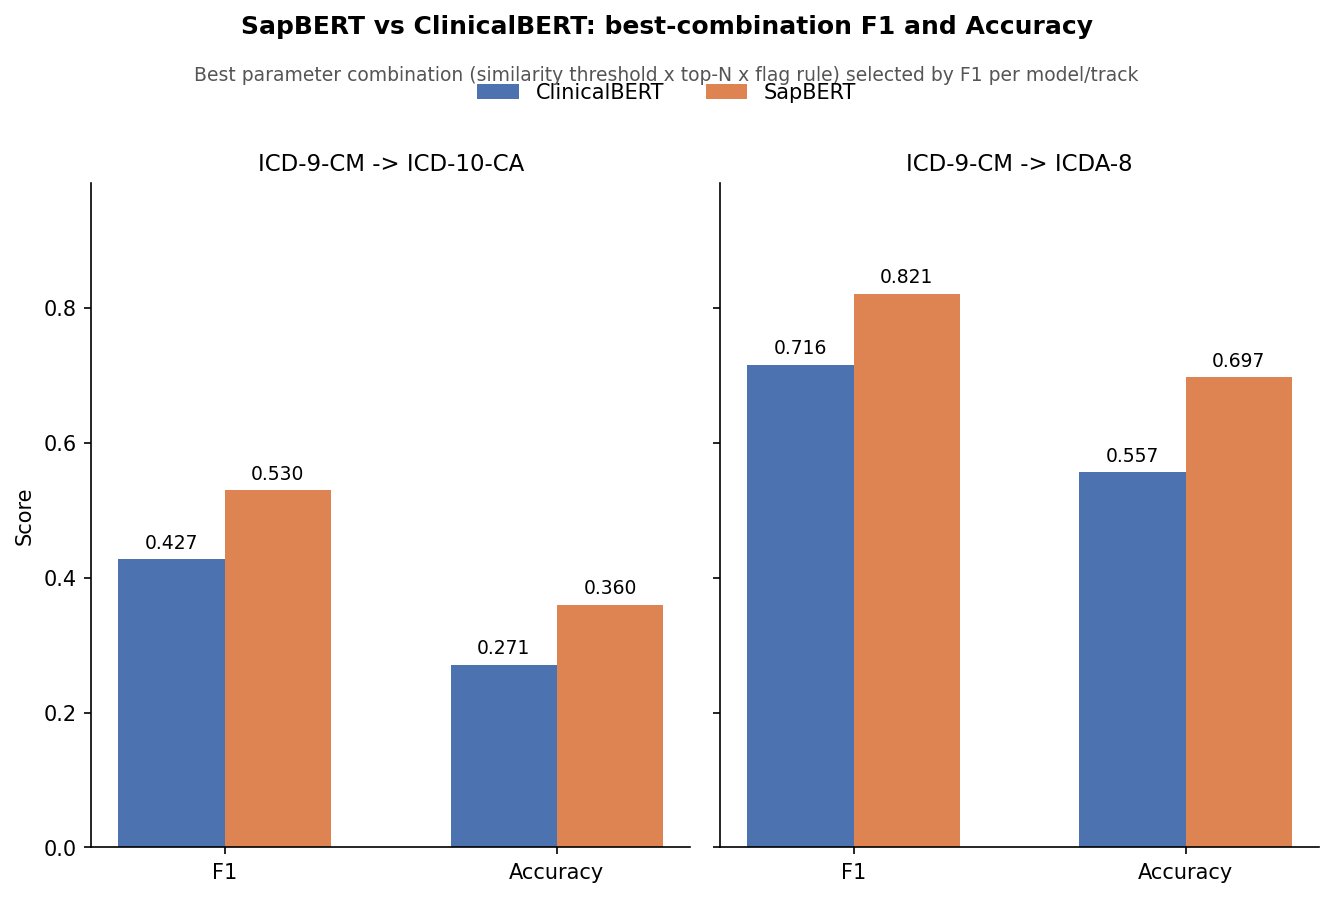
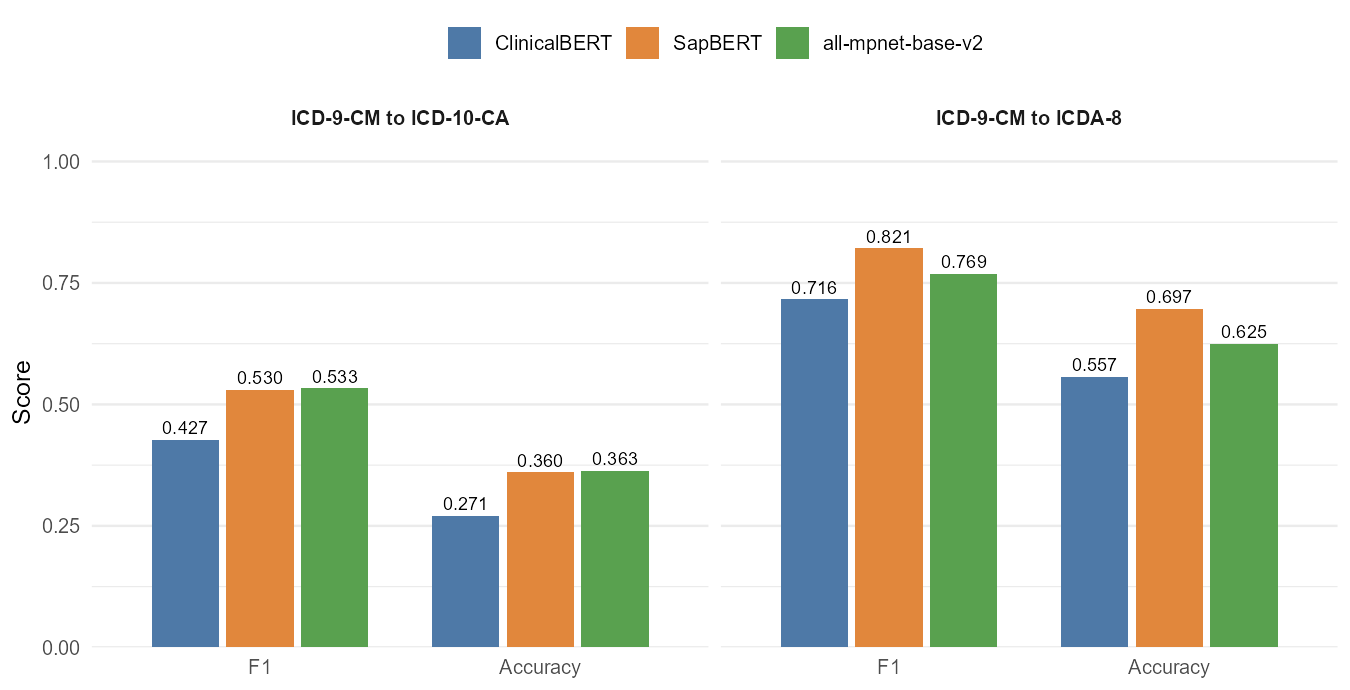
first person, correct the chapter filter claim, three-model figure 1

diff --git a/report.md b/report.md
@@ -11,24 +11,24 @@ the original analysis, in the order they were made, with the result of each one.
 
 ## 1. Rebuilding the Pipeline in R
 
-The original analysis was written as two Python notebooks. We ported both to R,
+The original analysis was written as two Python notebooks. I ported both to R,
 keeping the same steps in the same order, so that later changes could be
 compared against a working reproduction rather than against reported figures.
 
 Two differences had to be resolved before the original results could be
 reproduced. First, the original validated against the CIHI crosswalk table,
-which is not in the shared project folder, so we repointed the validation step
+which is not in the shared project folder, so I repointed the validation step
 at the validation sheets that are shared. Second, the range of co-occurrence Top
 N values differed between the two crosswalks in the original code, running from
-1 to 10 for ICD-10-CA and from 5 to 30 for ICDA-8. We swept 3 to 30 for both.
+1 to 10 for ICD-10-CA and from 5 to 30 for ICDA-8. I swept 3 to 30 for both.
 The best ICD-10-CA result occurs at a Top N of 30, which is beyond the point
 where the original search stopped, and this is why the F1 score of 0.427 did not
-reproduce at first. We also added 0.95 to the list of similarity thresholds,
+reproduce at first. I also added 0.95 to the list of similarity thresholds,
 since a threshold of 1.0 keeps only candidates tied with the highest score.
 
 With both corrections the R version reproduces 0.427 and 0.716 exactly.
 
-We also rewrote the chapter alignment lookup and the merging step to work on
+I also rewrote the chapter alignment lookup and the merging step to work on
 whole columns at once rather than row by row. This made the pipeline
 approximately 130 times faster with identical output, which is what made the
 larger parameter searches described below practical.
@@ -37,12 +37,12 @@ larger parameter searches described below practical.
 
 ## 2. Comparing Language Models
 
-ClinicalBERT was published in 2019. We tested two more recent models in its
+ClinicalBERT was published in 2019. I tested two more recent models in its
 place. SapBERT is trained specifically on medical vocabulary and the
 relationships between medical terms. The second, all-mpnet-base-v2, is a
 general-purpose model with no medical training at all, included as a control.
 
-So that the comparison would be fair, we regenerated the embeddings for all
+So that the comparison would be fair, I regenerated the embeddings for all
 three models with a single script, using identical text cleaning and identical
 settings, and evaluated all of them over the same 112 parameter combinations per
 crosswalk.
@@ -58,8 +58,7 @@ crosswalk.
 
 ![model comparison](results/plot_f1_accuracy_comparison.png)
 
-**Figure 1. F1 score and accuracy for ClinicalBERT and SapBERT at the best
-parameter combination for each model and crosswalk.**
+**Figure 1. F1 score and accuracy for each embedding model.**
 
 SapBERT is the stronger model, improving F1 by approximately 0.10 on both
 crosswalks. The result worth noting is that all-mpnet-base-v2, which has no
@@ -73,7 +72,7 @@ first indication that the model was not the main constraint.
 
 This section contains the central finding of the work.
 
-Rather than only measuring the final score, we followed every manually mapped
+Rather than only measuring the final score, I followed every manually mapped
 pair through the pipeline and recorded the stage at which it was lost. A pair
 removed at an early stage cannot be recovered by a later one, so the earliest
 loss sets an upper limit on everything that follows.
@@ -94,7 +93,7 @@ before any mapping algorithm is applied. Because those pairs are gone, the best
 F1 score that Step 4 could possibly have achieved was 0.770, no matter which
 mapping algorithm was chosen or how the parameters were tuned.
 
-We then tested whether those discarded pairs were recoverable. Replacing the
+I then tested whether those discarded pairs were recoverable. Replacing the
 relative similarity cutoff with a fixed number of candidates per ICD-9-CM code,
 removing the chapter filter, and lengthening the co-occurrence list raises the
 best obtainable F1 score from 0.770 to 0.927 for ICD-10-CA and from 0.920 to
@@ -103,10 +102,14 @@ be retrieved. They were being discarded by the selection rule rather than missed
 by the model, and this is the evidence that the model was not the limiting
 factor.
 
-We also examined the chapter distance filter in Step 3 specifically, and found
-that it removes more correct pairs than incorrect ones. Chapter alignment is
-still used, but as one input to the scoring step rather than as a filter that
-deletes candidates outright.
+I also examined the chapter distance filter in Step 3 on its own. Across 168
+matched designs, on both crosswalks, there is not one in which the filter
+improves the best obtainable F1 score. It costs 0.016 on ICD-10-CA and 0.005 on
+ICDA-8, and it destroys 48 correct ICD-10-CA pairs and 3 correct ICDA-8 pairs
+outright. It does remove far more incorrect pairs than correct ones, roughly
+5,000 against 21 in a typical design, but the incorrect ones would have been
+rejected by Step 4 in any case, whereas a correct pair it deletes is
+unrecoverable.
 
 ---
 
@@ -114,11 +117,11 @@ deletes candidates outright.
 
 The original analysis combined each ICD code with its label into a single text
 string before embedding, so that the model received text such as "250 diabetes
-mellitus" rather than "diabetes mellitus". We tested the effect of embedding the
+mellitus" rather than "diabetes mellitus". I tested the effect of embedding the
 label alone.
 
-The tables below report retrieval results only, measured on similarity scores
-before any scoring or selection takes place.
+The tables below report retrieval results only, measured on the similarity
+scores before Step 4 selects anything.
 
 **Table 3. Effect of removing the code number, ICD-9-CM to ICD-10-CA.**
 
@@ -159,11 +162,9 @@ relying on the code number more heavily than the others.
 ## 5. Choosing a Standard Stop Word Dictionary
 
 Stop words are common words such as "the", "of" and "and" that carry little
-meaning on their own. The original analysis did not remove them. We were asked
-to identify a suitable published dictionary and to confirm the choice before
-applying it.
+meaning on their own. The original analysis did not remove them.
 
-We compared four published English dictionaries. The important consideration is
+I compared four published English dictionaries. The important consideration is
 not the size of the dictionary but whether removing its words causes two
 different codes to end up with the same cleaned label, since the pipeline cannot
 distinguish codes in that situation.
@@ -194,7 +195,7 @@ all.
 
 ## 6. Applying Stop Word Removal to ClinicalBERT
 
-We reran ClinicalBERT under all four combinations of removing stop words and
+I reran ClinicalBERT under all four combinations of removing stop words and
 removing the code number, using the same parameter search each time, so that the
 only difference between the four results is the text given to the model.
 
@@ -220,12 +221,13 @@ is present and by 0.017 when it is not. It has no meaningful effect on ICDA-8.
 Removing the code number is the larger of the two changes, worth between 0.035
 and 0.046 on ICD-10-CA, which agrees with the retrieval results in Section 4.
 The two changes combine, and the best result is obtained with both applied,
-giving 0.482 against 0.427 for the original ClinicalBERT configuration.
+giving 0.482 against 0.430 for the same pipeline with the stop words and
+the code number left in.
 
 The ICDA-8 result stays between 0.713 and 0.719 whatever is done to the text.
 Nothing in the cleaning process affects that crosswalk.
 
-We also ran both versions of the Snowball dictionary so that the choice
+I also ran both versions of the Snowball dictionary so that the choice
 described in Section 5 could be made on evidence.
 
 **Table 7. Best F1 score with each version of the Snowball dictionary.**
@@ -246,12 +248,11 @@ the letter that identifies several vitamin deficiency and hepatitis codes.
 
 Steps 1 and 2 of the original pipeline each cut a list short using a number.
 Step 1 uses the similarity score and Step 2 uses how often two codes appear
-together in the health records. We were asked to show what those two numbers
-actually look like across all the codes rather than assume it.
+together in the health records.
 
 ### The similarity score
 
-For each of the 354 ICD-9-CM codes we took its best similarity score against any
+For each of the 354 ICD-9-CM codes I took its best similarity score against any
 target code.
 
 **Table 8. Best similarity score available for each ICD-9-CM code,
@@ -303,11 +304,9 @@ spread, on a scale where each step is ten times the last.**
 
 The counts differ enormously from one code to another, from single figures up to
 238,548. A count of 300 is therefore a strong signal for one code and a weak one
-for another, and the raw count is not comparable between codes. A count carries meaning only
-relative to the other counts for the same ICD-9-CM code.
+for another, and the raw count is not comparable between codes. A count
+carries meaning only relative to the other counts for the same ICD-9-CM code.
 
 The other point is that 84 ICD-9-CM codes, close to a quarter, have no ICDA-8
 co-occurrence data at all. For those codes Step 2 of the original pipeline
 contributes nothing and the mapping rests entirely on the labels.
-
----

diff --git a/README.md b/README.md
@@ -72,11 +72,11 @@ still runs.
 | | |
 |---|---|
 | `02_run_comparison.R` | first ClinicalBERT vs SapBERT run |
-| `03_visualize_results.R` | makes report Figure 1 |
+| `03_visualize_results.R` | per-CCS-category charts |
 | `05_bidirectional_and_roundtrip.R` | mapping in the reverse direction |
 | `06_extended_comparison.R` | wider parameter sweep, superseded by `07` |
 | `07_full_grid_comparison.R` | full grid, one file per condition |
-| `08_assemble_full_grid.R` | combines those into the summary tables |
+| `08_assemble_full_grid.R` | combines those into the summary tables and report Figure 1 |
 
 **Diagnosing the ceiling**
 
